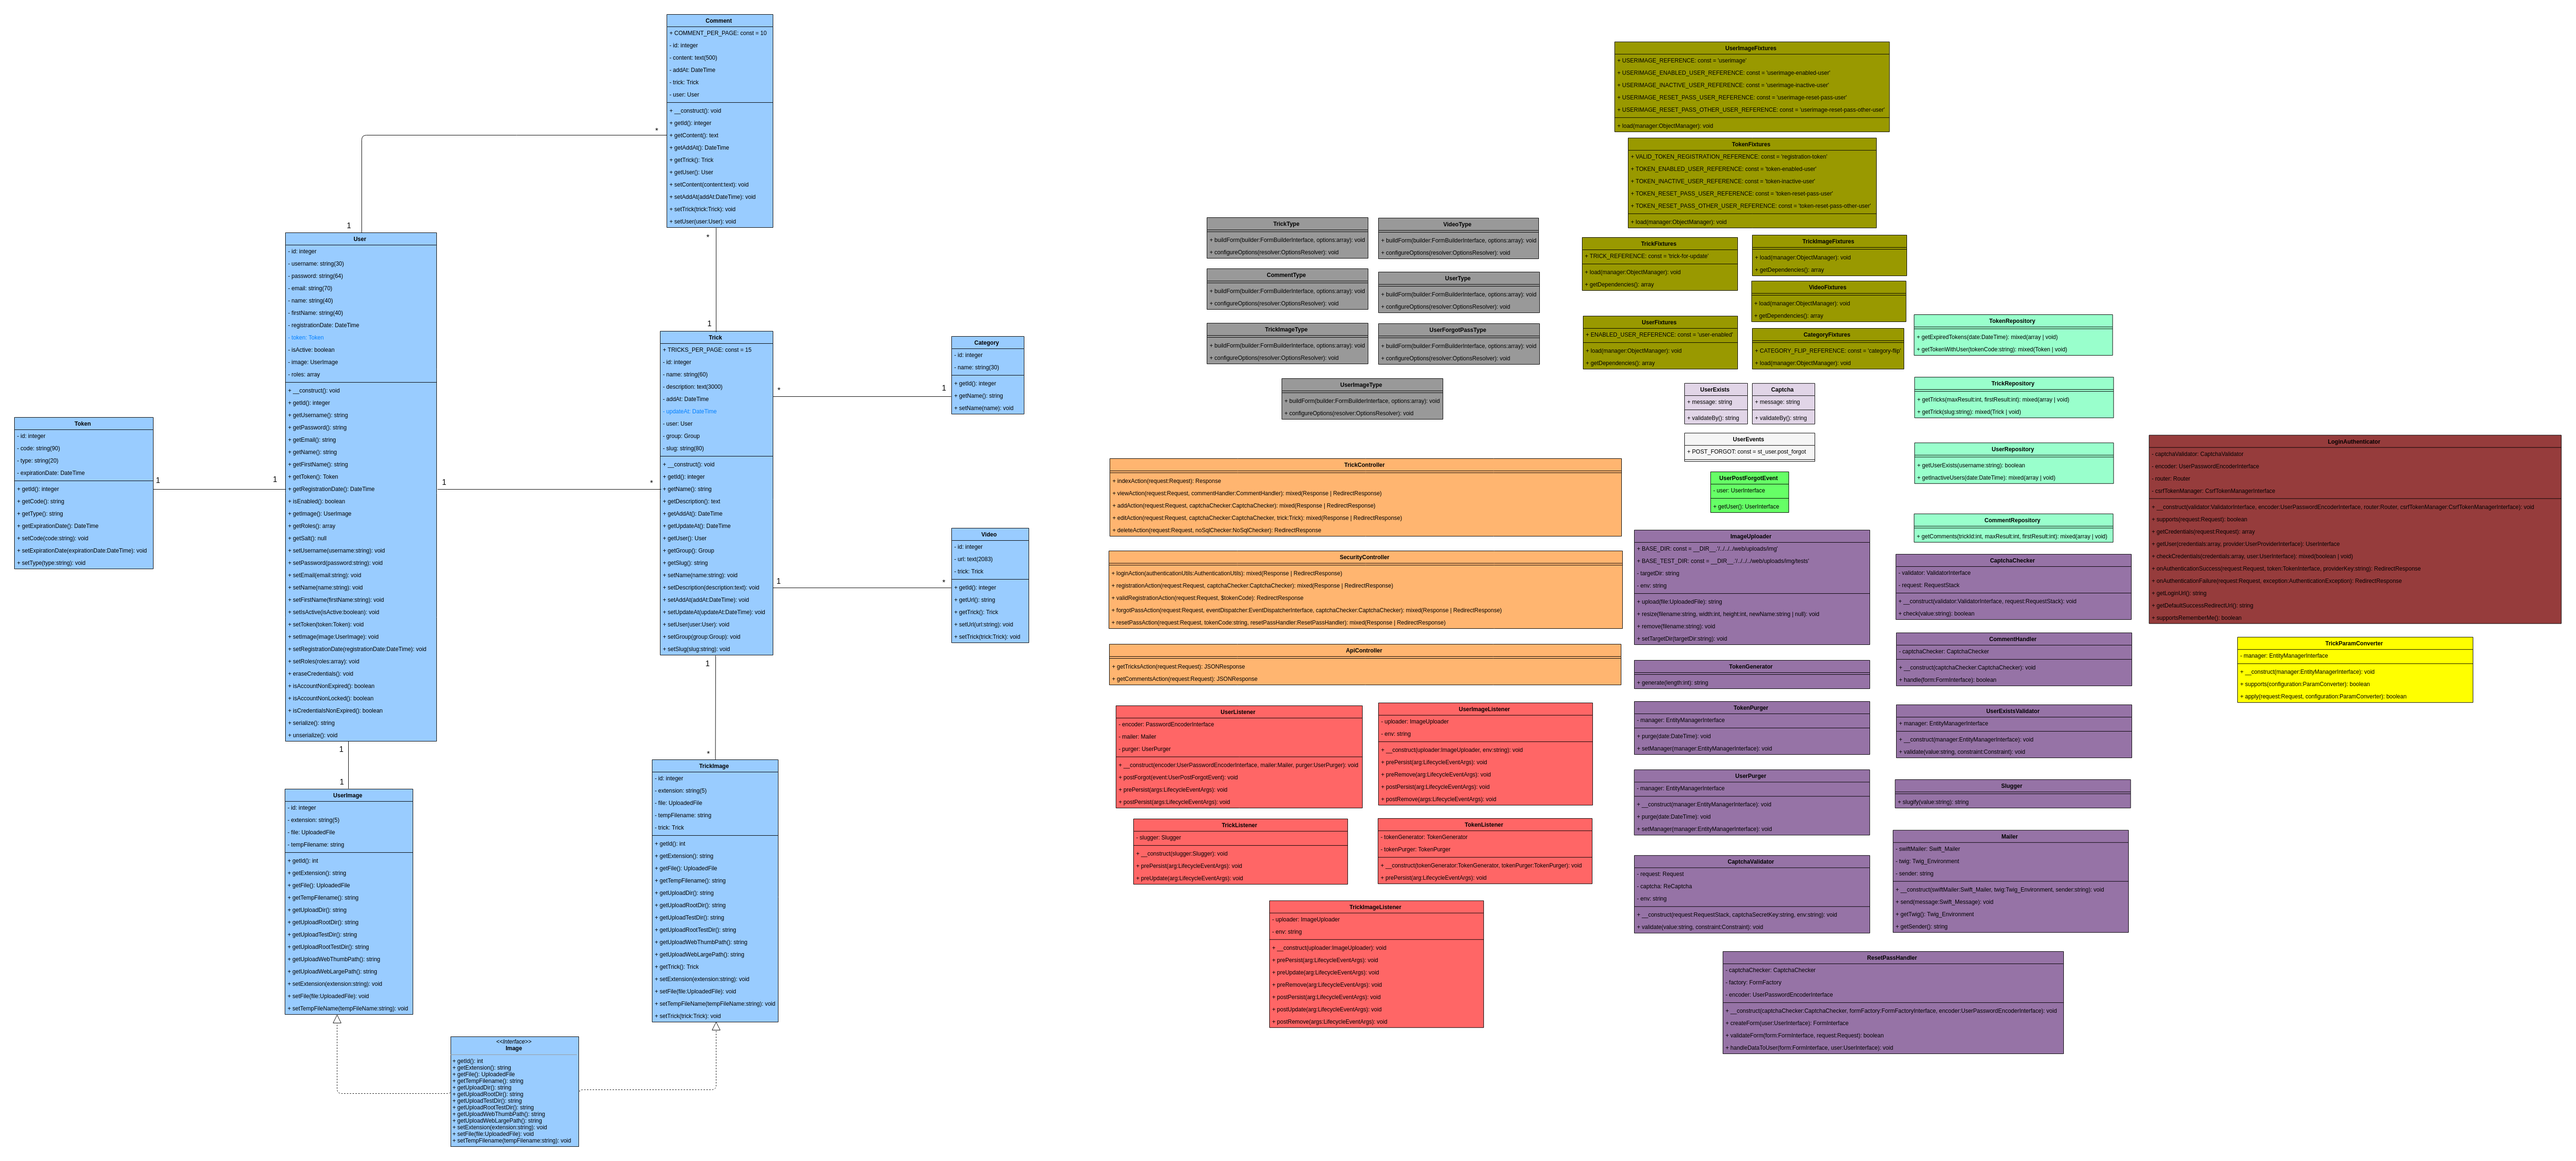
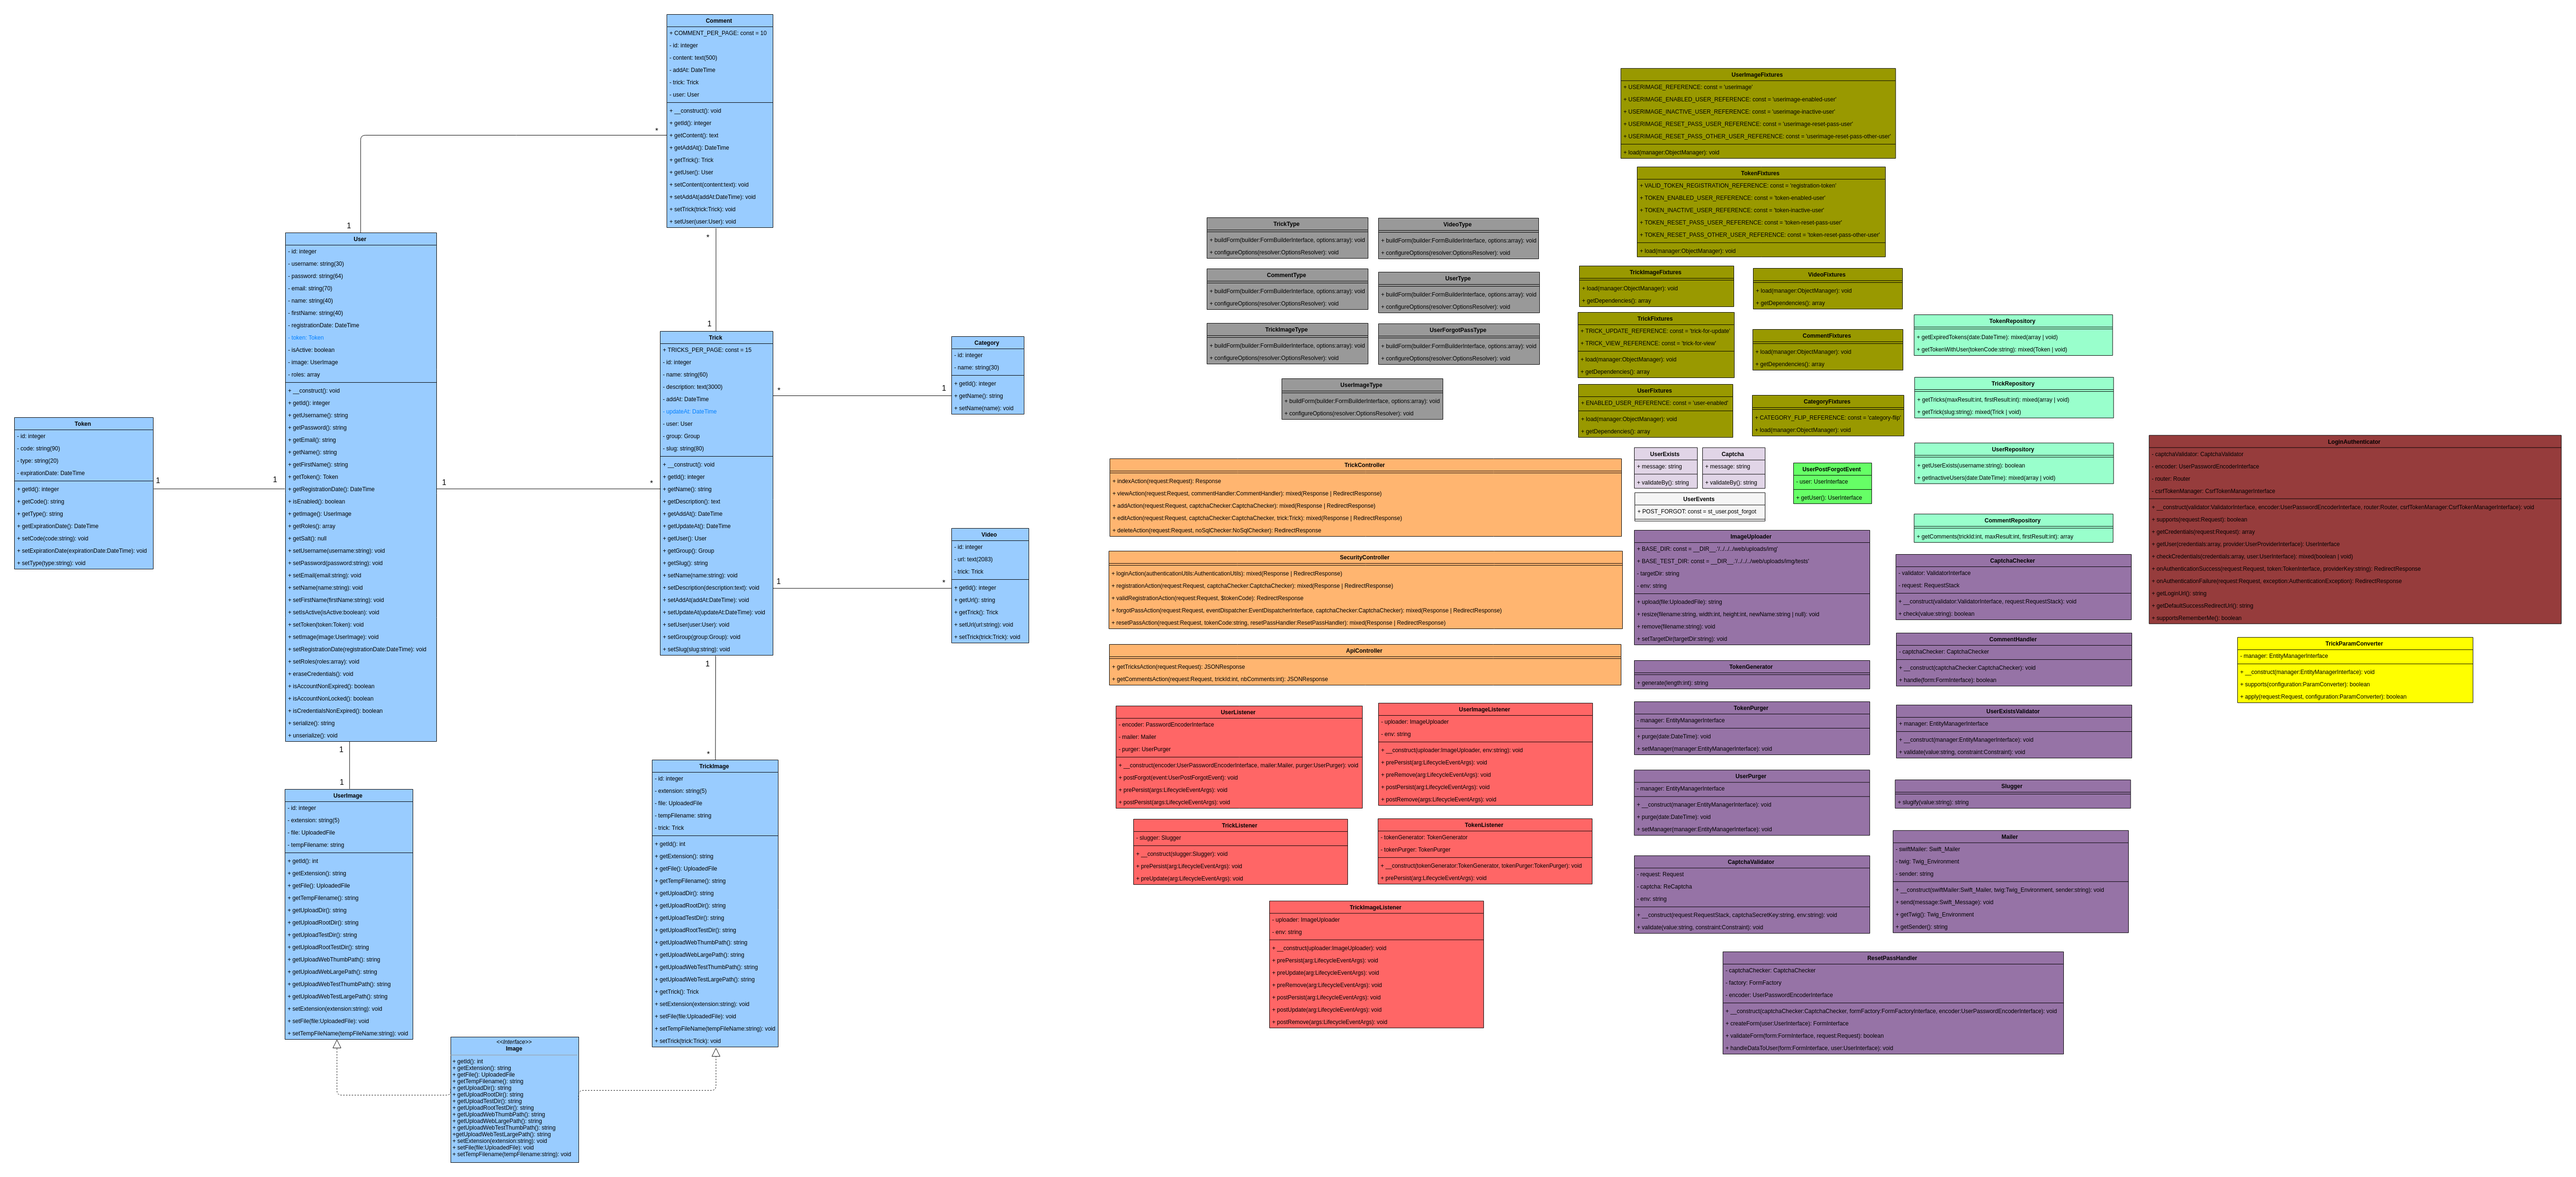
Update diagram, change getComments method of ApiController to getCommentsAction

diff --git a/src/AppBundle/Controller/ApiController.php b/src/AppBundle/Controller/ApiController.php
@@ -32,7 +32,7 @@ class ApiController extends Controller
      * 
      * @return void
      */
-    public function getComments(Request $request, $trickId, $nbComments)
+    public function getCommentsAction(Request $request, $trickId, $nbComments)
     {
         if (!$request->isXmlHttpRequest()) {
             throw $this->createNotFoundException();
